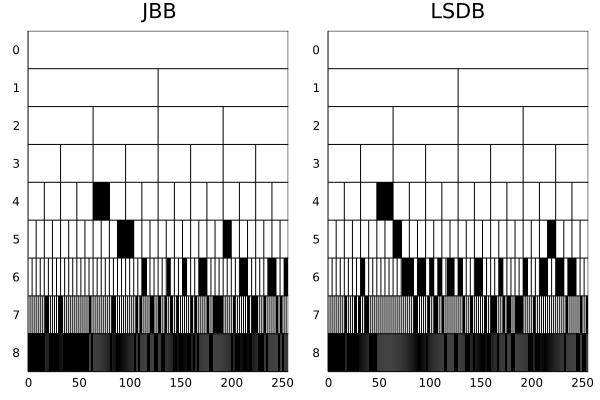
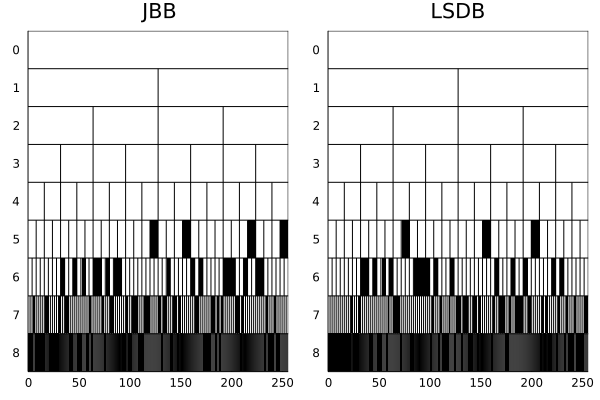
Update codes in paper.md

Changed region(s): [[0.09, 0.45, 0.48, 0.93], [0.57, 0.45, 0.99, 0.93], [0.03, 0.75, 0.06, 0.93]]

diff --git a/paper.md b/paper.md
@@ -43,12 +43,12 @@ x[128] = 1
 wt = wavelet(WT.db4)  # Construct Daubechies 4-tap wavelet filter
 
 # ----- Autocorrelation Wavelet Transforms -----
-y = acwt(x, wt)
-p1 = wiggle(y, sc=0.7) |> p -> plot!(p, title="Autocorrelation WT")
+y = acdwt(x, wt)
+p1 = wiggle(y) |> p -> plot!(p, yticks=1:9, title="Autocorrelation WT")
 
 # ----- Stationary Wavelet Transforms -----
 y = sdwt(x, wt)
-p2 = wiggle(y, sc=0.7) |> p -> plot!(p, title="Stationary WT")
+p2 = wiggle(y) |> p -> plot!(p, yticks=1:9, title="Stationary WT")
 
 # Combine and save plot
 p = plot(p1, p2, layout=(1,2), size=(600,300))
@@ -64,19 +64,20 @@ using Plots, Wavelets, WaveletsExt
 
 # Generate 100 noisy heavysine signals of length 2⁸
 x = generatesignals(:heavysine, 8) |> 
-  x -> duplicatesignals(x, 100, 2, true, 0.5)
+    x -> duplicatesignals(x, 100, 2, true, 0.5)
 
 # Wavelet packet decomposition of all signals
-xw = [wpd(xᵢ, wt) for xᵢ in eachcol(x)] |> 
-  xw -> cat(xw..., dims=3)
+xw = wpdall(x, wt)
 
 # ----- Joint Best Basis (JBB)
 tree = bestbasistree(xw, JBB())
-p1 = plot_tfbdry(tree) |> p -> plot!(p, title="JBB")
+p1 = plot_tfbdry(tree, nd_col=:black, ln_col=:black, bg_col=:white) |> 
+     p -> plot!(p, title="JBB")
 
 # ----- Least Statistically Dependent Basis (LSDB)
 tree = bestbasistree(xw, LSDB())
-p2 = plot_tfbdry(tree) |> p -> plot!(p, title="LSDB")
+p2 = plot_tfbdry(tree, nd_col=:black, ln_col=:black, bg_col=:white) |> 
+     p -> plot!(p, title="LSDB")
 
 # Combine and save plot
 p = plot(p1, p2, layout=(1,2), size=(600,300))
@@ -92,14 +93,13 @@ using Plots, Wavelets, WaveletsExt
 
 # Generate 6 circularly shifted heavysine signals
 x₀ = generatesignals(:heavysine, 8) |> 
-  x -> duplicatesignals(x, 6, 2, false)
+     x -> duplicatesignals(x, 6, 2, false)
 # Generate 6 noisy versions of the original signals
 x = generatesignals(:heavysine, 8) |> 
-  x -> duplicatesignals(x, 6, 2, true, 0.8)
+    x -> duplicatesignals(x, 6, 2, true, 0.8)
 
 # Decompose each noisy signal
-xw = [wpd(xᵢ, wt) for xᵢ in eachcol(x)] |> 
-  xw -> cat(xw..., dims=3)
+xw = wpdall(x, wt)
 
 # Get best basis tree from the decomposition of signals
 bt = bestbasistree(xw, JBB())
@@ -134,11 +134,11 @@ using Plots, Wavelets, WaveletsExt
 X, y = generateclassdata(ClassData(:cbf, 100, 100, 100))
 # View sample signals and how each class differs from one another
 cylinder = wiggle(X[:,1:5], sc=0.3, EdgeColor=:white, FaceColor=:white)
-plot!(cylinder, ylabel="Cylinder")
+plot!(cylinder, yticks=1:5, ylabel="Cylinder")
 bell = wiggle(X[:,101:105], sc=0.3, EdgeColor=:white, FaceColor=:white)
-plot!(bell, ylabel="Bell")
+plot!(bell, yticks=1:5, ylabel="Bell")
 funnel = wiggle(X[:,201:205], sc=0.3, EdgeColor=:white, FaceColor=:white)
-plot!(funnel, ylabel="Funnel")
+plot!(funnel, yticks=1:5, ylabel="Funnel")
 p1 = plot(cylinder, bell, funnel, layout=(3,1))
 
 # Instantiate the LDB object
@@ -157,7 +157,8 @@ ldb = LocalDiscriminantBasis(
 X̂ = fit_transform(ldb, X, y)
 
 # Plot the best basis for feature extraction
-p2 = plot_tfbdry(ldb.tree)
+p2 = plot_tfbdry(ldb.tree, nd_col=:black, ln_col=:black, bg_col=:white)
+plot!(p2, title="Basis Selection using LDB")
 
 # Combine and save plot
 p = plot(p1, p2, size=(600,300))
